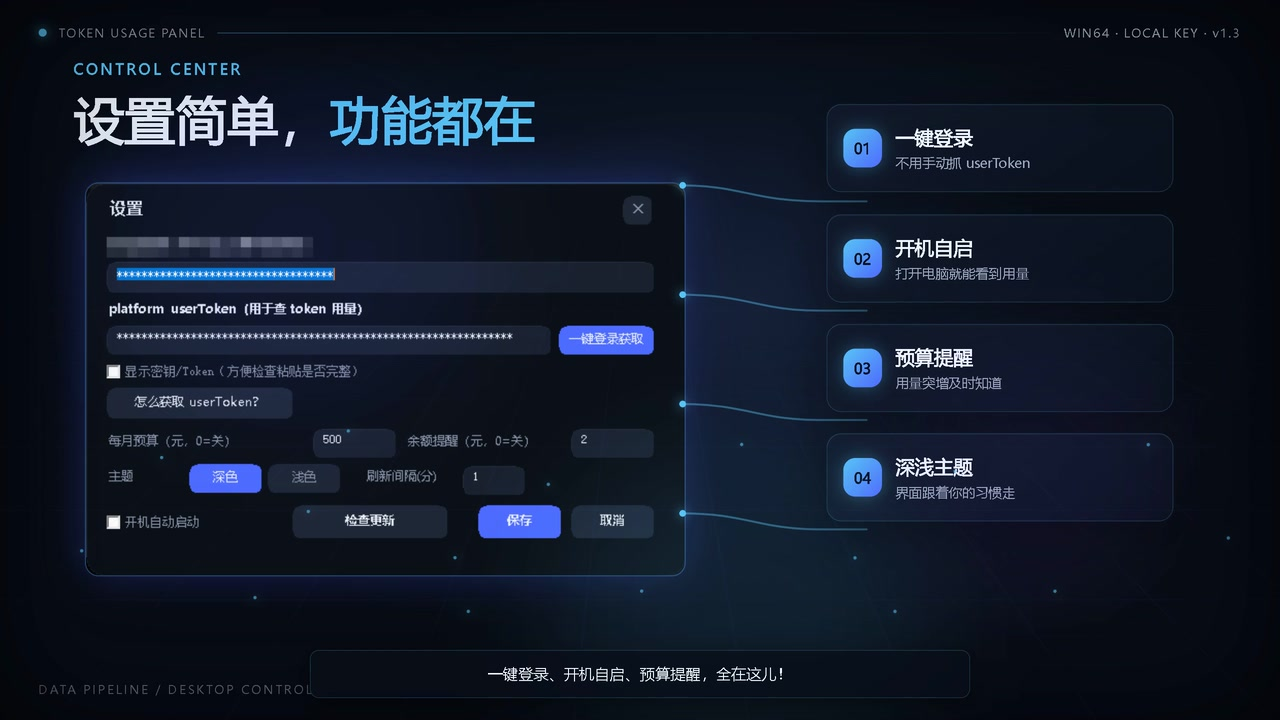
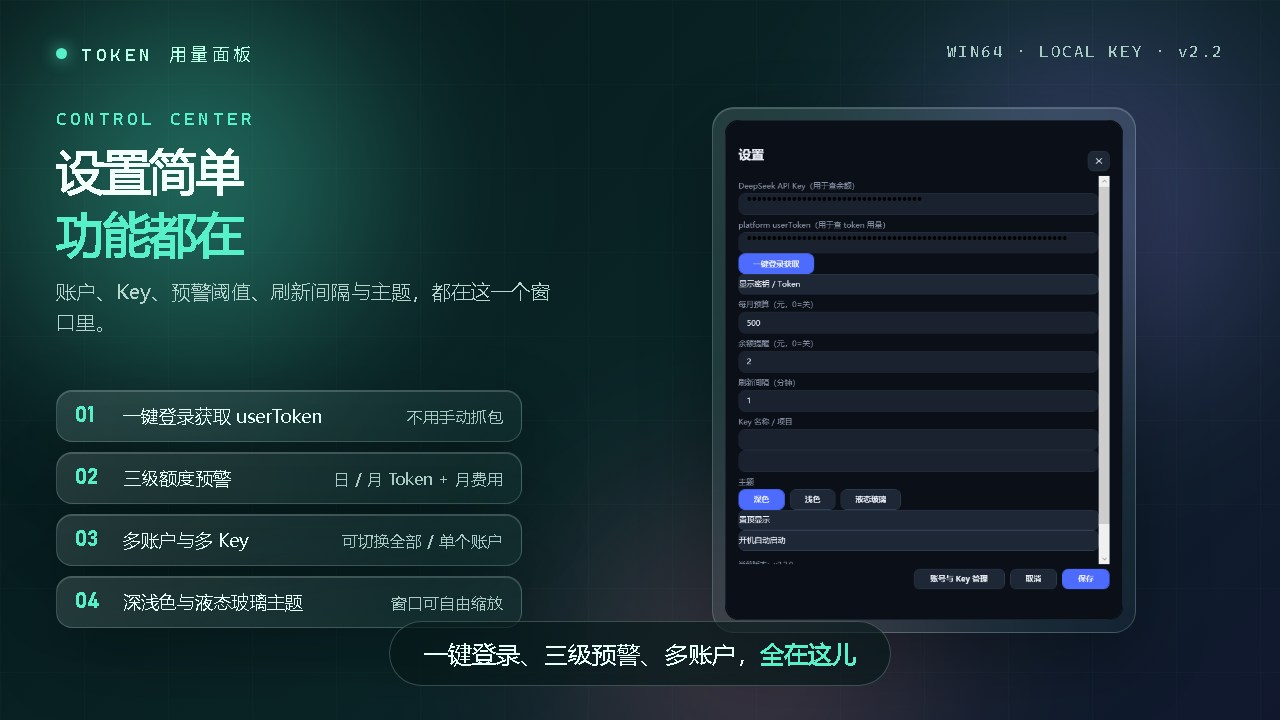
docs: refresh README screenshots for v2.2 (token split, call quality, project trend)

diff --git a/README.md b/README.md
@@ -102,13 +102,13 @@ Windows 10 / 11 · 本地运行 · Key 不上传 · 免费使用
 
 ## 界面预览
 
-| 主界面 | 设置页 |
+| 主界面（含输入 / 输出拆分、调用质量） | 项目维度趋势（总量 / 项目切换） |
 |---|---|
-| <img src="assets/readme/dashboard.jpg" alt="主界面" width="100%" /> | <img src="assets/readme/settings.jpg" alt="设置页" width="100%" /> |
+| <img src="assets/readme/dashboard.jpg" alt="主界面" width="100%" /> | <img src="assets/readme/project-trend.jpg" alt="项目维度趋势" width="100%" /> |
 
-| 一键获取 userToken | 检查更新 |
+| 设置页 | 项目明细与费用估算口径 |
 |---|---|
-| <img src="assets/readme/token-login.jpg" alt="一键获取 userToken" width="100%" /> | <img src="assets/readme/update.jpg" alt="检查更新" width="100%" /> |
+| <img src="assets/readme/settings.jpg" alt="设置页" width="100%" /> | <img src="assets/readme/project-detail.jpg" alt="项目明细与估算口径" width="100%" /> |
 
 ---
 
